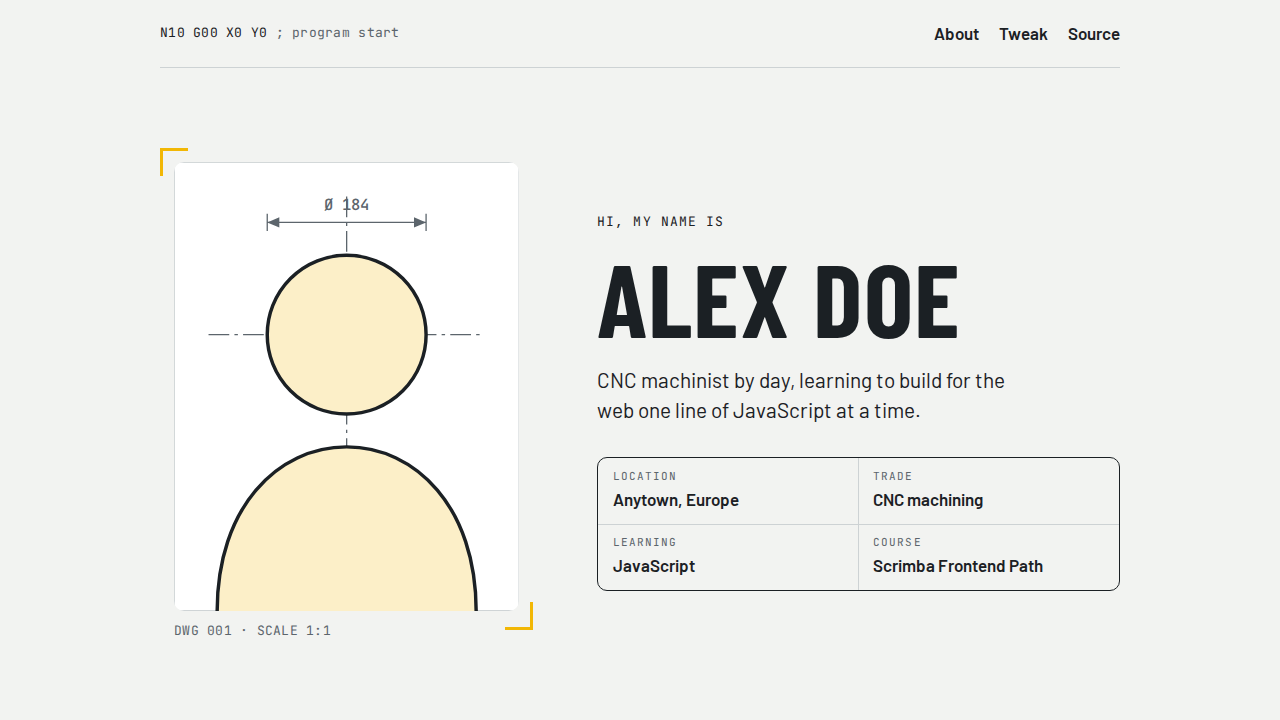
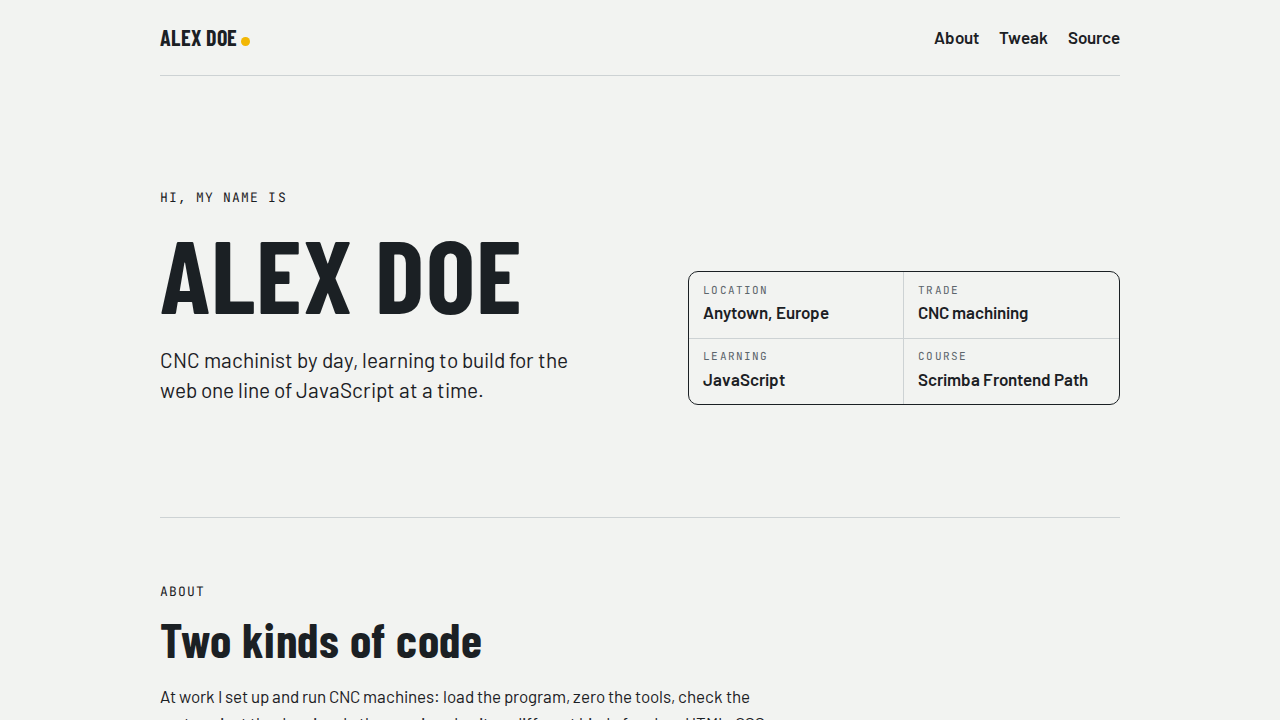
Remove placeholder portrait and machine-code labels (#3)
- Drop the SVG portrait; hero is now name + facts table
- Replace G-code and drawing labels with plain words
- Update README and screenshot

Claude-Session: https://claude.ai/code/session_01263jz2VZP2vPgBJXScxBEX

diff --git a/index.html b/index.html
@@ -24,7 +24,7 @@
     <a class="skip-link" href="#main">Skip to content</a>
 
     <header class="topbar">
-        <span class="mono">N10 G00 X0 Y0 <span class="muted">; program start</span></span>
+        <a class="brand" href="#main">Alex Doe</a>
         <nav aria-label="Main">
             <a href="#about">About</a>
             <a href="#tweak">Tweak</a>
@@ -34,38 +34,22 @@
 
     <main id="main">
         <section class="hero" aria-labelledby="name">
-            <figure class="portrait">
-                <svg class="avatar" viewBox="0 0 400 520" role="img" aria-labelledby="avatar-title">
-                    <title id="avatar-title">Placeholder portrait drawn like a technical drawing</title>
-                    <rect class="av-bg" x="0" y="0" width="400" height="520" />
-                    <path class="av-center" d="M200 40 V500 M40 200 H360" />
-                    <circle class="av-fill" cx="200" cy="200" r="92" />
-                    <path class="av-fill" d="M50 520 C50 400 120 330 200 330 C280 330 350 400 350 520 Z" />
-                    <circle class="av-line" cx="200" cy="200" r="92" />
-                    <path class="av-line" d="M50 520 C50 400 120 330 200 330 C280 330 350 400 350 520" />
-                    <path class="av-dim" d="M108 70 H292 M108 60 V80 M292 60 V80" />
-                    <path class="av-arrow" d="M108 70 l14 -6 v12 Z M292 70 l-14 -6 v12 Z" />
-                    <text class="av-text" x="200" y="56" text-anchor="middle">Ø 184</text>
-                </svg>
-                <figcaption class="mono">DWG 001 · SCALE 1:1</figcaption>
-            </figure>
-
             <div class="hero-text">
                 <p class="eyebrow mono">Hi, my name is</p>
                 <h1 id="name" class="display">Alex Doe</h1>
                 <p class="lede">CNC machinist by day, learning to build for the web one line of JavaScript at a time.</p>
-
-                <dl class="title-block" aria-label="Facts about me">
-                    <div><dt>Location</dt><dd>Anytown, Europe</dd></div>
-                    <div><dt>Trade</dt><dd>CNC machining</dd></div>
-                    <div><dt>Learning</dt><dd>JavaScript</dd></div>
-                    <div><dt>Course</dt><dd>Scrimba Frontend Path</dd></div>
-                </dl>
             </div>
+
+            <dl class="title-block" aria-label="Facts about me">
+                <div><dt>Location</dt><dd>Anytown, Europe</dd></div>
+                <div><dt>Trade</dt><dd>CNC machining</dd></div>
+                <div><dt>Learning</dt><dd>JavaScript</dd></div>
+                <div><dt>Course</dt><dd>Scrimba Frontend Path</dd></div>
+            </dl>
         </section>
 
         <section id="about" class="block" aria-labelledby="about-title">
-            <p class="eyebrow mono">N20 <span class="muted">; about</span></p>
+            <p class="eyebrow mono">About</p>
             <h2 id="about-title" class="display">Two kinds of code</h2>
             <div class="prose">
                 <p>At work I set up and run CNC machines: load the program, zero the tools, check the part against the drawing. In the evenings I write a different kind of code — HTML, CSS and JavaScript.</p>
@@ -74,7 +58,7 @@
         </section>
 
         <section id="tweak" class="block" aria-labelledby="tweak-title">
-            <p class="eyebrow mono">N30 <span class="muted">; tweak this page</span></p>
+            <p class="eyebrow mono">Try it</p>
             <h2 id="tweak-title" class="display">Make it yours</h2>
             <p class="prose">This was my first Scrimba project. The challenge was to pass a favourite movie genre, fruit, mode and corner style into JavaScript functions that restyle the page through CSS variables. Try it — your picks are remembered on this device.</p>
 
@@ -103,9 +87,9 @@
         </section>
 
         <section id="source" class="block" aria-labelledby="source-title">
-            <p class="eyebrow mono">N40 <span class="muted">; source</span></p>
+            <p class="eyebrow mono">Source</p>
             <h2 id="source-title" class="display">Behind the page</h2>
-            <p class="prose">Alex Doe is a demo profile: the name, place and drawing are placeholders, so this page works as a template anyone can fill in.</p>
+            <p class="prose">Alex Doe is a demo profile: the name and place are placeholders, so this page works as a template anyone can fill in.</p>
             <ul class="links">
                 <li><a class="btn" href="https://github.com/brutall100/scrimba-personal-site" target="_blank" rel="noopener">View the code <span aria-hidden="true">↗</span></a></li>
                 <li><a class="btn btn-ghost" href="https://scrimba.com/learn/frontend" target="_blank" rel="noopener">Scrimba course <span aria-hidden="true">↗</span></a></li>
@@ -114,7 +98,7 @@
     </main>
 
     <footer class="footer mono">
-        <span>M30 <span class="muted">; program end</span></span>
+        <span>© Alex Doe</span>
         <span>Built during <a href="https://scrimba.com/learn/frontend" target="_blank" rel="noopener">Scrimba's Frontend Developer Career Path</a></span>
     </footer>
 </body>

diff --git a/styles.css b/styles.css
@@ -149,6 +149,25 @@ a:hover {
     border-bottom: 1px solid var(--line);
 }
 
+.brand {
+    font-family: var(--font-heading);
+    font-weight: 700;
+    font-size: 1.375rem;
+    letter-spacing: .02em;
+    text-transform: uppercase;
+    text-decoration: none;
+}
+
+.brand::after {
+    content: "";
+    display: inline-block;
+    width: .4em;
+    height: .4em;
+    margin-left: .15em;
+    background: var(--accent);
+    border-radius: 50%;
+}
+
 .topbar nav {
     display: flex;
     gap: 1.25rem;
@@ -167,61 +186,10 @@ a:hover {
 /* ---------- Hero ---------- */
 .hero {
     display: grid;
-    grid-template-columns: minmax(0, 5fr) minmax(0, 7fr);
+    grid-template-columns: minmax(0, 1fr) minmax(0, 27rem);
     gap: clamp(1.5rem, 5vw, 4rem);
-    align-items: center;
-    padding-block: clamp(2rem, 7vw, 5rem);
-}
-
-.portrait {
-    margin: 0;
-    position: relative;
-    padding: 14px;
-}
-
-/* corner registration marks, like on a technical drawing */
-.portrait::before,
-.portrait::after {
-    content: "";
-    position: absolute;
-    width: 28px;
-    height: 28px;
-    border: 0 solid var(--accent);
-}
-
-.portrait::before {
-    top: 0;
-    left: 0;
-    border-top-width: 3px;
-    border-left-width: 3px;
-}
-
-.portrait::after {
-    right: 0;
-    bottom: 26px;
-    border-right-width: 3px;
-    border-bottom-width: 3px;
-}
-
-.avatar {
-    display: block;
-    width: 100%;
-    height: auto;
-    border-radius: var(--radius);
-    transition: border-radius .3s;
-}
-
-.av-bg { fill: var(--surface); stroke: var(--line); stroke-width: 2; }
-.av-fill { fill: color-mix(in srgb, var(--accent) 22%, var(--surface)); }
-.av-line { fill: none; stroke: var(--ink); stroke-width: 4; }
-.av-center { fill: none; stroke: var(--muted); stroke-width: 1.5; stroke-dasharray: 24 6 4 6; }
-.av-dim { fill: none; stroke: var(--muted); stroke-width: 1.5; }
-.av-arrow { fill: var(--muted); }
-.av-text { fill: var(--muted); font: 500 18px var(--font-mono); }
-
-.portrait figcaption {
-    margin-top: .6rem;
-    color: var(--muted);
+    align-items: end;
+    padding-block: clamp(3rem, 10vw, 7rem);
 }
 
 .hero-text h1 {
@@ -233,7 +201,7 @@ a:hover {
     font-size: var(--step-1);
     line-height: 1.45;
     max-width: 34ch;
-    margin: 1rem 0 2rem;
+    margin: 1.25rem 0 0;
 }
 
 /* facts laid out like the title block in the corner of a drawing */
@@ -443,10 +411,6 @@ strong {
 @media (max-width: 720px) {
     .hero {
         grid-template-columns: 1fr;
-    }
-
-    .portrait {
-        max-width: 320px;
     }
 
     .panel {

diff --git a/README.md b/README.md
@@ -10,7 +10,7 @@
 
 A one-page personal site for a CNC machinist who is learning web development.
 The profile (**Alex Doe**) is a placeholder, so the page works as a template anyone can fill in with their own details.
-The page borrows from the machine shop: the portrait is a technical drawing, section markers are written like G-code blocks (`N10`, `N20`, …, `M30`), and the facts sit in a table styled like the title block in the corner of a drawing.
+The facts sit in a table styled like the title block in the corner of a technical drawing, a small nod to the machine shop.
 
 The original Scrimba challenge was to restyle the page by calling four JavaScript functions with your favourites.
 I turned that into a **"Make it yours"** panel so visitors can try it themselves.
@@ -22,7 +22,6 @@ I turned that into a **"Make it yours"** panel so visitors can try it themselves
 - **Shows the code** behind each choice, e.g. `favouriteFruit("blueberry")`
 - **Light and dark mode** that follows your system setting by default
 - **Responsive** from phones to wide screens
-- **Placeholder portrait** drawn in SVG, so it changes colour with the theme
 - **Accessible**: semantic HTML, keyboard focus styles, skip link, respects reduced motion
 
 ## Built with
